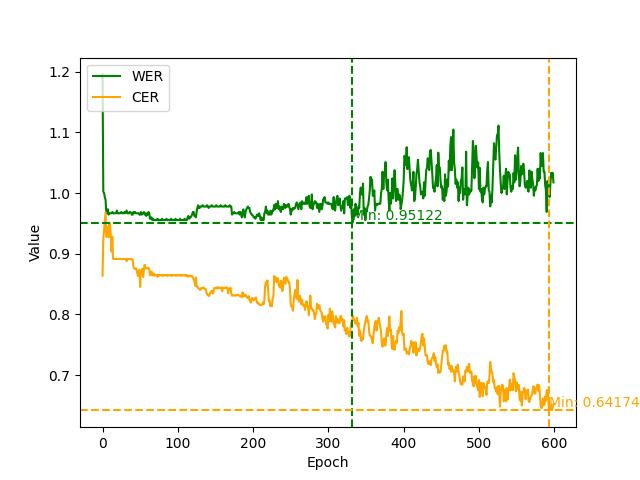
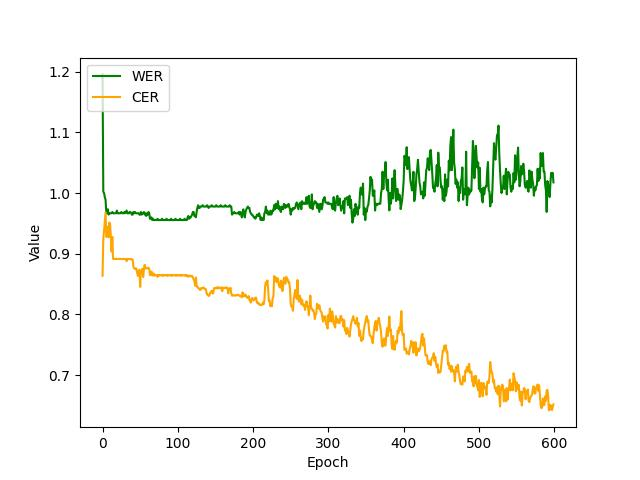
show min metrics plots

Changed region(s): [[0.125, 0.125, 1.0, 0.9062], [0.5312, 0.125, 0.5625, 0.4062]]

diff --git a/Training/plot_metrics.py b/Training/plot_metrics.py
@@ -1,10 +1,11 @@
 import os
 import matplotlib.pyplot as plt
+import numpy as np
 import pandas as pd
 
 def plot_losses(run_name):
 
-    loss_file = pd.read_csv(f'logs/training-{run_name}.csv')
+    loss_file = pd.read_csv(f'logs/training-{run_name[0]}.csv')
 
     train_loss = loss_file['ctc_loss']
     val_loss = loss_file['val_ctc_loss']
@@ -16,12 +17,12 @@ def plot_losses(run_name):
     plt.xlabel('Epoch')
     plt.legend(['train_loss', 'val_loss'], loc='upper left')
     #plt.show()
-    plt.savefig(f"plots/{run_name}/losses.jpg")
+    plt.savefig(f"plots/{run_name[0]}/losses.jpg")
     plt.close()
 
 
 def plot_val_metrics(run_name):
-    metrics_file = pd.read_csv(f'results/{run_name}/stats.csv')
+    metrics_file = pd.read_csv(f'results/{run_name[0]}/stats.csv')
 
     wer = metrics_file['Mean WER (Norm)']
     cer = metrics_file['Mean CER (Norm)']
@@ -29,17 +30,32 @@ def plot_val_metrics(run_name):
     plt.plot(wer, color='green')
     plt.plot(cer, color='orange')
 
+    min_wer_index = wer.idxmin()
+    min_cer_index = cer.idxmin()
+    min_wer_value = wer[min_wer_index]
+    min_cer_value = cer[min_cer_index]
+
+
+    legend1 = plt.legend(
+        [f'Min WER: {min_wer_value:.2f} (Epoch {min_wer_index})',
+         f'Min CER: {min_cer_value:.2f} (Epoch {min_cer_index})'],
+        loc='upper right'
+    )
+
+
+
     plt.ylabel('Value')
     plt.xlabel('Epoch')
     plt.legend(['WER', 'CER'], loc='upper left')
     #plt.show()
-    plt.savefig(f"plots/{run_name}/val_metrics.jpg")
+    plt.gca().add_artist(legend1)
+    plt.savefig(f"plots/{run_name[0]}/val_metrics.jpg")
     plt.close()
 
 
 def plot_losses_kd(run_name):
 
-    loss_file = pd.read_csv(f'logs/training-{run_name}.csv')
+    loss_file = pd.read_csv(f'logs/training-{run_name[0]}.csv')
 
     train_loss_0 = loss_file['train_loss_s0']
     val_loss_0 = loss_file['val_loss_s0']
@@ -55,41 +71,57 @@ def plot_losses_kd(run_name):
     plt.xlabel('Epoch')
     plt.legend(['train_loss_s0', 'val_loss_s0','train_loss_s1', 'val_loss_s1'], loc='upper left')
     #plt.show()
-    plt.savefig(f"plots/{run_name}/losses.jpg")
+    plt.savefig(f"plots/{run_name[0]}/losses.jpg")
     plt.close()
 
 
 def plot_val_metrics_kd(run_name):
-    metrics_file = pd.read_csv(f'results/{run_name}/s0/stats.csv')
-    metrics_file1 = pd.read_csv(f'results/{run_name}/s1/stats.csv')
+
+    metrics_file = pd.read_csv(f'results/{run_name[0]}/s0/stats.csv')
+    metrics_file1 = pd.read_csv(f'results/{run_name[0]}/s1/stats.csv')
 
     wer = metrics_file['Mean WER (Norm)']
     cer = metrics_file['Mean CER (Norm)']
     wer1 = metrics_file1['Mean WER (Norm)']
     cer1 = metrics_file1['Mean CER (Norm)']
 
-    min_wer_index = wer.idxmin()
-    min_wer_value = wer.min()
-
     plt.plot(wer, color='green')
     plt.plot(cer, color='orange')
     plt.plot(wer1, color='blue')
     plt.plot(cer1, color='red')
 
+    min_wer_index = wer.idxmin()
+    min_cer_index = cer.idxmin()
+    min_wer1_index = wer1.idxmin()
+    min_cer1_index = cer1.idxmin()
+
+    min_wer_value = wer[min_wer_index]
+    min_cer_value = cer[min_cer_index]
+    min_wer1_value = wer1[min_wer1_index]
+    min_cer1_value = cer1[min_cer1_index]
+
+    legend1 = plt.legend(
+        [f'Min WER: {min_wer_value:.2f} (Epoch {min_wer_index})',
+         f'Min CER: {min_cer_value:.2f} (Epoch {min_cer_index})',
+         f'Min WER1: {min_wer1_value:.2f} (Epoch {min_wer1_index})',
+         f'Min CER1: {min_cer1_value:.2f} (Epoch {min_cer1_index})'],
+        loc='upper right'
+    )
+
     #plt.grid(True)
-    #plt.axhline(min_wer_value, color='green', linestyle='--')
-    #plt.axvline(min_wer_index, color='green', linestyle='--')
 
     plt.ylabel('Value')
     plt.xlabel('Epoch')
-    plt.legend(['WER', 'CER', 'WER1', 'CER1'], loc='upper left')
-    #plt.show()
-    plt.savefig(f"plots/{run_name}/val_metrics.jpg")
+    legend2 = plt.legend(['WER', 'CER', 'WER1', 'CER1'], loc='upper left')
+
+    plt.gca().add_artist(legend1)
+
+    plt.savefig(f"plots/{run_name[0]}/val_metrics.jpg")
     plt.close()
 
 
 def plot_train_metrics_kd(run_name):
-    metrics_file = pd.read_csv(f'results/{run_name}/training_metrics.csv')
+    metrics_file = pd.read_csv(f'results/{run_name[0]}/training_metrics.csv')
 
     l0 = metrics_file['Loss student 0']
     l1 = metrics_file['Loss student 1']
@@ -105,30 +137,50 @@ def plot_train_metrics_kd(run_name):
     plt.xlabel('Epoch')
     plt.legend(['Loss 0', 'Loss 1', 'Ensemble loss', 'Multiloss'], loc='upper left')
     #plt.show()
-    plt.savefig(f"plots/{run_name}/training_metrics.jpg")
+    plt.savefig(f"plots/{run_name[0]}/training_metrics.jpg")
     plt.close()
 
 
 if __name__ == '__main__':
-    # Vanilla Training
-    #run_name = "2023_10_26_09_22_27"
-    #run_name = "2023_10_28_11_30_29"
-    #run_name = "2023_10_31_18_23_34"
-    #run_name = "2023_11_02_10_55_00"
-    #run_name = "2023_11_04_16_41_41"
-    #run_name = "2023_11_06_17_36_26"
-    run_name = "2023_11_06_17_35_37"
+    # Vanilla Training 32bs (isKD)
+    #run_name = ("2023_10_26_09_22_27", False)
+
+    # Vanilla Training-128 32bs
+    #run_name = ("2023_10_28_11_30_29", False)
+
+    # KD Training 16bs
+    #run_name = ("2023_10_31_18_23_34", True)
+
+    # Vanilla Training-256 32bs
+    #run_name = ("2023_11_02_10_55_00", False)
+
+    # Vanilla Training 16bs
+    run_name = ("2023_11_04_16_41_41", False)
+
+    # Vanilla Training-256 16bs
+    #run_name = ("2023_11_06_17_35_37", False)
+
+    # Vanilla Training-128 16bs
+    #run_name = ("2023_11_06_17_36_26", False)
 
 
     if not os.path.exists("plots"):
         os.mkdir("plots")
 
-    run_folder = os.path.join("plots", run_name)
+    run_folder = os.path.join("plots", run_name[0])
     if not os.path.exists(run_folder):
         os.mkdir(run_folder)
 
-    plot_losses(run_name)
-    plot_val_metrics(run_name)
-    #plot_losses_kd(run_name)
-    #plot_val_metrics_kd(run_name)
-    #plot_train_metrics_kd(run_name)
+
+    if run_name[1] is False:
+        plot_losses(run_name)
+        plot_val_metrics(run_name)
+
+    else:
+        plot_losses_kd(run_name)
+        plot_val_metrics_kd(run_name)
+        plot_train_metrics_kd(run_name)
+
+
+
+
